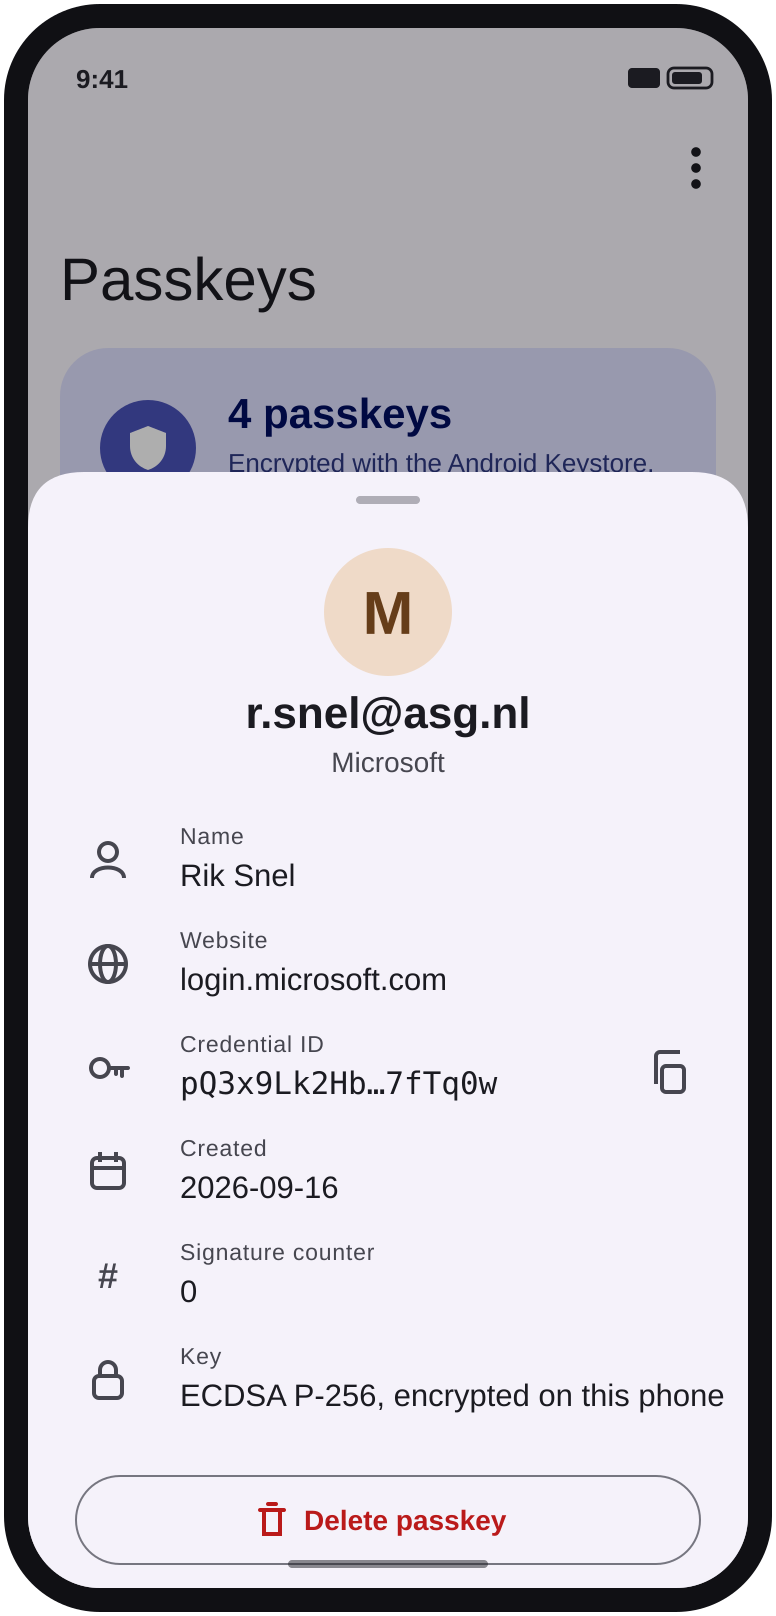
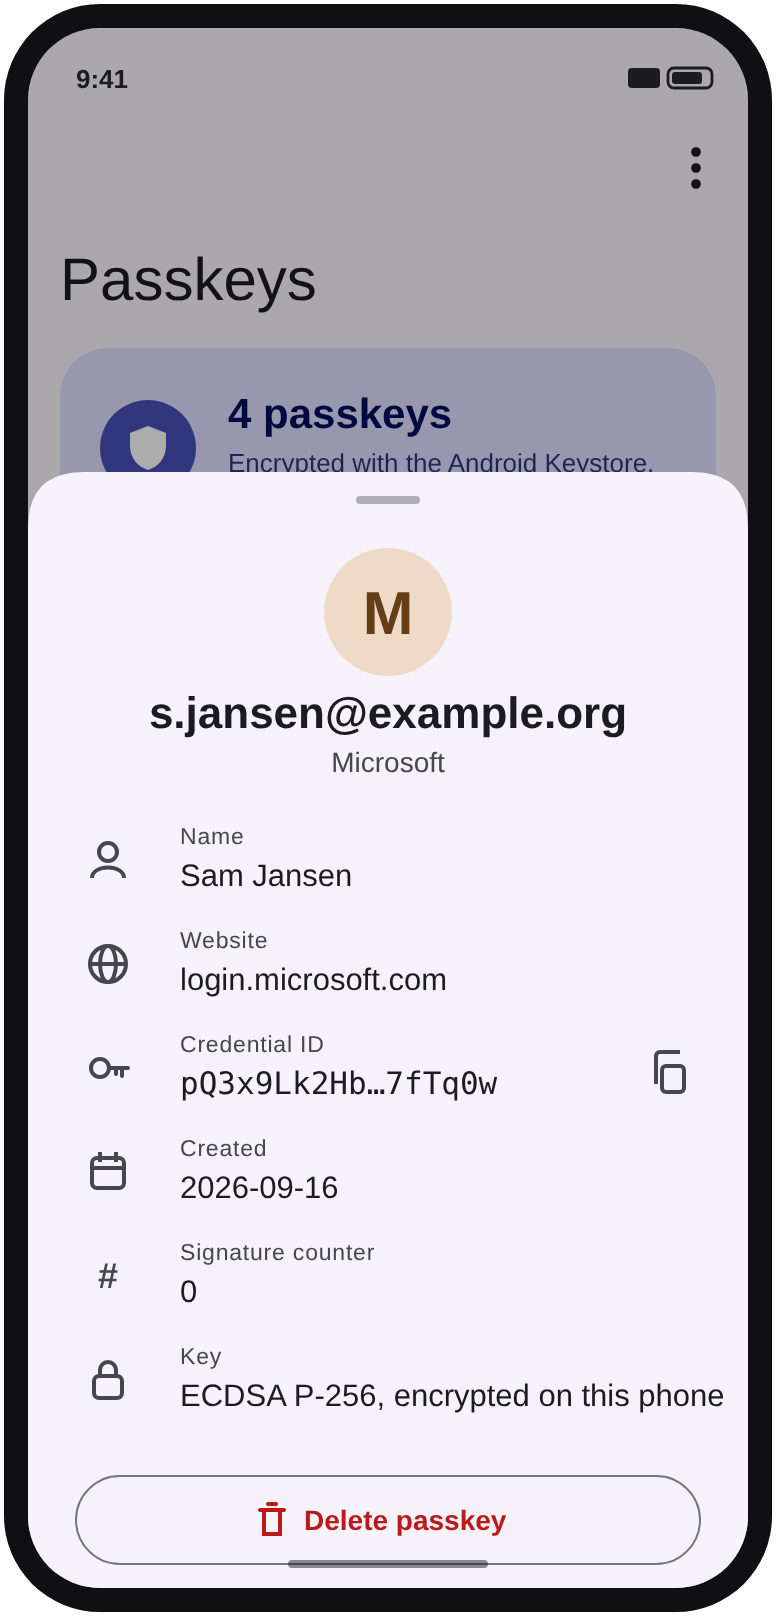
Website: APPROVED sign-in screenshot, generic names in the screenshots
The QR in the new screenshot is a real QR code of FIDO:/ followed by
zeros: it looks like a sign-in code but carries no keys or data.

Claude-Session: https://claude.ai/code/session_01Sf6BjLYgBsn6Pwp3AkGd6P

Changed region(s): [[0.1856, 0.4332, 0.8041, 0.4641], [0.2165, 0.526, 0.4639, 0.5569]]

diff --git a/docs/index.html b/docs/index.html
@@ -173,7 +173,7 @@
     <div class="shot-row">
       <div class="shot"><img src="assets/screen_home.png" alt="Passkeys grouped per website"><p>Your passkeys, grouped per website.</p></div>
       <div class="shot"><img src="assets/screen_details.png" alt="Details of one passkey in a bottom sheet"><p>Details, copy and delete (with undo).</p></div>
-      <div class="shot"><img src="assets/screen_scan.png" alt="Camera scanning a sign-in QR code"><p>Scan a computer’s sign-in QR to sign in.</p></div>
+      <div class="shot"><img src="assets/screen_approved.png" alt="The scanned sign-in QR code stamped APPROVED, above a list of five completed steps"><p>Scan a computer’s sign-in QR: approved.</p></div>
     </div>
   </div>
 </section>
